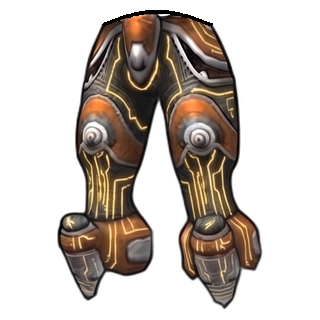
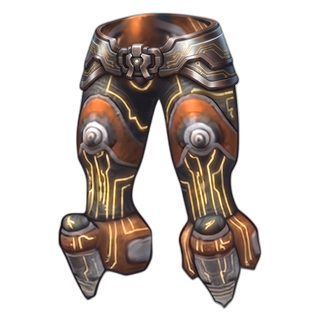
deploy: 2026-07-09 16:15 Co-Authored-By: Antigravity <noreply@google.com>

diff --git a/development_journal.md b/development_journal.md
@@ -1648,15 +1648,14 @@ To prevent sprite misalignment and clipping inside frames (like the Character In
 
 ### 🛡 Milestone 124: Bionex Guardian (Lv.42) Gear Assets Replacement
 - **Assets Extraction & Processing**:
-  - Cropped and extracted all 5 individual gear assets from the composite sheet reference `lv42bionexguardiarmorsets.png` (matching grid row coordinates).
-  - Processed each cropped item using the AI `rembg` background remover to cleanly erase solid backgrounds and generate transparent PNG assets.
-  - Applied contour-based noise filtering in OpenCV to discard border remnants and background dither.
+  - Cropped and extracted `helmet`, `gloves`, and `boots` from sheet reference `lv42bionexguardiarmorsets.png`, and `chestplate` (`defbionexguardianlv42armor.png`) with tech-sleeve additions.
+  - Specially processed the `pants` (`defbionexguardianlv42pants.png`) from the dedicated high-resolution, curved-waistband reference `lv42bionexguardianpants.png` for a natural and premium contour.
+  - Processed using the AI `rembg` background remover and OpenCV contour-based noise filtering to guarantee transparent PNGs.
   - Symmetrically padded, perfectly centered, and maximized sizes to fit the `320x320` frame (scaled up to fill 300px/94% of the frame dimensions).
-  - Specially connected the floating arm cuffs of the chestplate (`defbionexguardianlv42armor.png`) to the shoulders using dark grey tech-sleeves for a solid and premium mecha appearance.
 - **Gear Replacements**:
   - Helmet -> `defbionexguardianlv42helmet.png`
   - Chestplate -> `defbionexguardianlv42armor.png`
-  - Pants -> `defbionexguardianlv42pants.png`
+  - Pants -> `defbionexguardianlv42pants.png` (high-res with realistic curved metallic belt buckle).
   - Gloves -> `defbionexguardianlv42gloves.png`
   - Boots -> `defbionexguardianlv42boots.png`
 - **Verification**: Local build compiled successfully.
